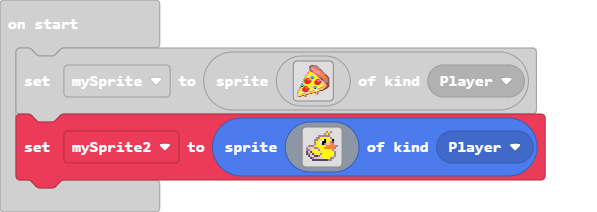
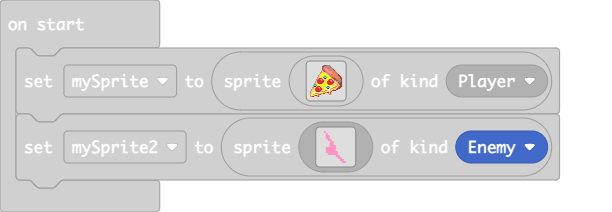
Update main.blocks, main.ts, images.g.jres, images.g.ts

diff --git a/main.ts b/main.ts
@@ -33,20 +33,20 @@ let mySprite = sprites.create(img`
     44ee...4e.......................
     `, SpriteKind.Player)
 let mySprite2 = sprites.create(img`
-    . . . . . . . . . . b 5 b . . . 
-    . . . . . . . . . b 5 b . . . . 
-    . . . . . . b b b b b b . . . . 
-    . . . . . b b 5 5 5 5 5 b . . . 
-    . . . . b b 5 d 1 f 5 5 d f . . 
-    . . . . b 5 5 1 f f 5 d 4 c . . 
-    . . . . b 5 5 d f b d d 4 4 . . 
-    . b b b d 5 5 5 5 5 4 4 4 4 4 b 
-    b d d d b b d 5 5 4 4 4 4 4 b . 
-    b b d 5 5 5 b 5 5 5 5 5 5 b . . 
-    c d c 5 5 5 5 d 5 5 5 5 5 5 b . 
-    c b d c d 5 5 b 5 5 5 5 5 5 b . 
-    . c d d c c b d 5 5 5 5 5 d b . 
-    . . c b d d d d d 5 5 5 b b . . 
-    . . . c c c c c c c c b b . . . 
-    . . . . . . . . . . . . . . . . 
-    `, SpriteKind.Player)
+    . . 3 . . . . . . . . . . . . . 
+    . . . 3 . . . . . . . . . . . . 
+    . . . 3 3 . . . . . . . . . . . 
+    . . . 3 3 . . . . . . . . . . . 
+    . . . . 3 3 . . . . . . . . . . 
+    . . . . . 3 3 . . . . . . . . . 
+    . . . . . 3 3 . . . . . . . . . 
+    . . . . . 3 3 3 . . . . . . . . 
+    . . . 3 3 3 3 3 . . . . . . . . 
+    . . . 3 3 3 3 3 . . . . . . . . 
+    . . . 3 3 3 3 3 3 . . . . . . . 
+    . . . . 3 3 3 3 3 . . . . . . . 
+    . . . . . . . . 3 3 . . . . . . 
+    . . . . . . . . . 3 3 . . . . . 
+    . . . . . . . . . . 3 3 . . . . 
+    . . . . . . . . . . . 3 3 . . . 
+    `, SpriteKind.Enemy)

diff --git a/images.g.ts b/images.g.ts
@@ -38,22 +38,22 @@ b555115dddd55d544eede...........
 44ee...4e.......................
 `;
             case "image1":return img`
-. . . . . . . . . . b 5 b . . . 
-. . . . . . . . . b 5 b . . . . 
-. . . . . . b b b b b b . . . . 
-. . . . . b b 5 5 5 5 5 b . . . 
-. . . . b b 5 d 1 f 5 5 d f . . 
-. . . . b 5 5 1 f f 5 d 4 c . . 
-. . . . b 5 5 d f b d d 4 4 . . 
-. b b b d 5 5 5 5 5 4 4 4 4 4 b 
-b d d d b b d 5 5 4 4 4 4 4 b . 
-b b d 5 5 5 b 5 5 5 5 5 5 b . . 
-c d c 5 5 5 5 d 5 5 5 5 5 5 b . 
-c b d c d 5 5 b 5 5 5 5 5 5 b . 
-. c d d c c b d 5 5 5 5 5 d b . 
-. . c b d d d d d 5 5 5 b b . . 
-. . . c c c c c c c c b b . . . 
-. . . . . . . . . . . . . . . . 
+. . 3 . . . . . . . . . . . . . 
+. . . 3 . . . . . . . . . . . . 
+. . . 3 3 . . . . . . . . . . . 
+. . . 3 3 . . . . . . . . . . . 
+. . . . 3 3 . . . . . . . . . . 
+. . . . . 3 3 . . . . . . . . . 
+. . . . . 3 3 . . . . . . . . . 
+. . . . . 3 3 3 . . . . . . . . 
+. . . 3 3 3 3 3 . . . . . . . . 
+. . . 3 3 3 3 3 . . . . . . . . 
+. . . 3 3 3 3 3 3 . . . . . . . 
+. . . . 3 3 3 3 3 . . . . . . . 
+. . . . . . . . 3 3 . . . . . . 
+. . . . . . . . . 3 3 . . . . . 
+. . . . . . . . . . 3 3 . . . . 
+. . . . . . . . . . . 3 3 . . . 
 `;
         }
         return null;
